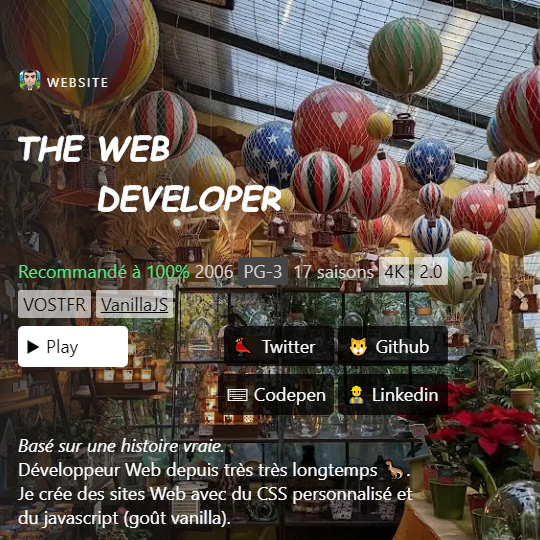
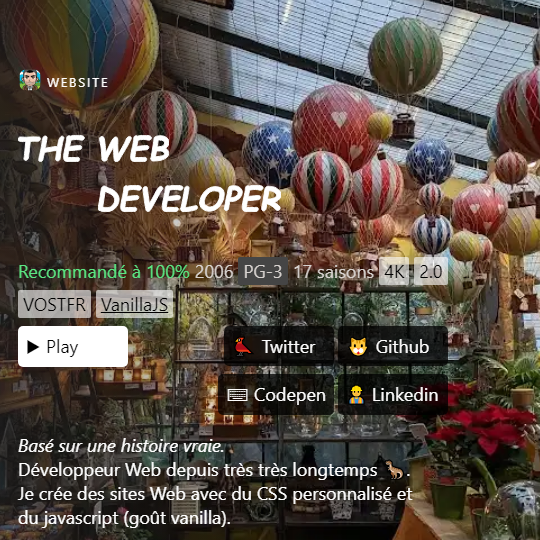
50

diff --git a/js/capture.js b/js/capture.js
@@ -14,7 +14,7 @@ fetch("https://bilelz.blogspot.com/feeds/posts/default?alt=json&max-results=1&ca
   })
   .then(function (data) {
     if (data.feed.entry.length > 0 && data.feed.entry[0].media$thumbnail) {
-      const heroBgUrl = data.feed.entry[0].media$thumbnail.url.replace(/s[^\/]+-c/g, "s1200");
+      const heroBgUrl = data.feed.entry[0].media$thumbnail.url.replace(/s[^\/]+-c/g, "s1024");
       console.log(heroBgUrl);
 
       const file = fs.createWriteStream("img/hero.jpg");
@@ -28,11 +28,11 @@ fetch("https://bilelz.blogspot.com/feeds/posts/default?alt=json&max-results=1&ca
 
           await imagemin(["img/hero.jpg"], {
             destination: "img",
-            plugins: [imageminWebp({ quality: 75 })],
+            plugins: [imageminWebp({ quality: 50 })],
           });
           await imagemin(["img/hero.jpg"], {
             destination: "img",
-            plugins: [imageminMozjpeg({ quality: 75 })],
+            plugins: [imageminMozjpeg({ quality: 50 })],
           });
 
           await Promise.all([
